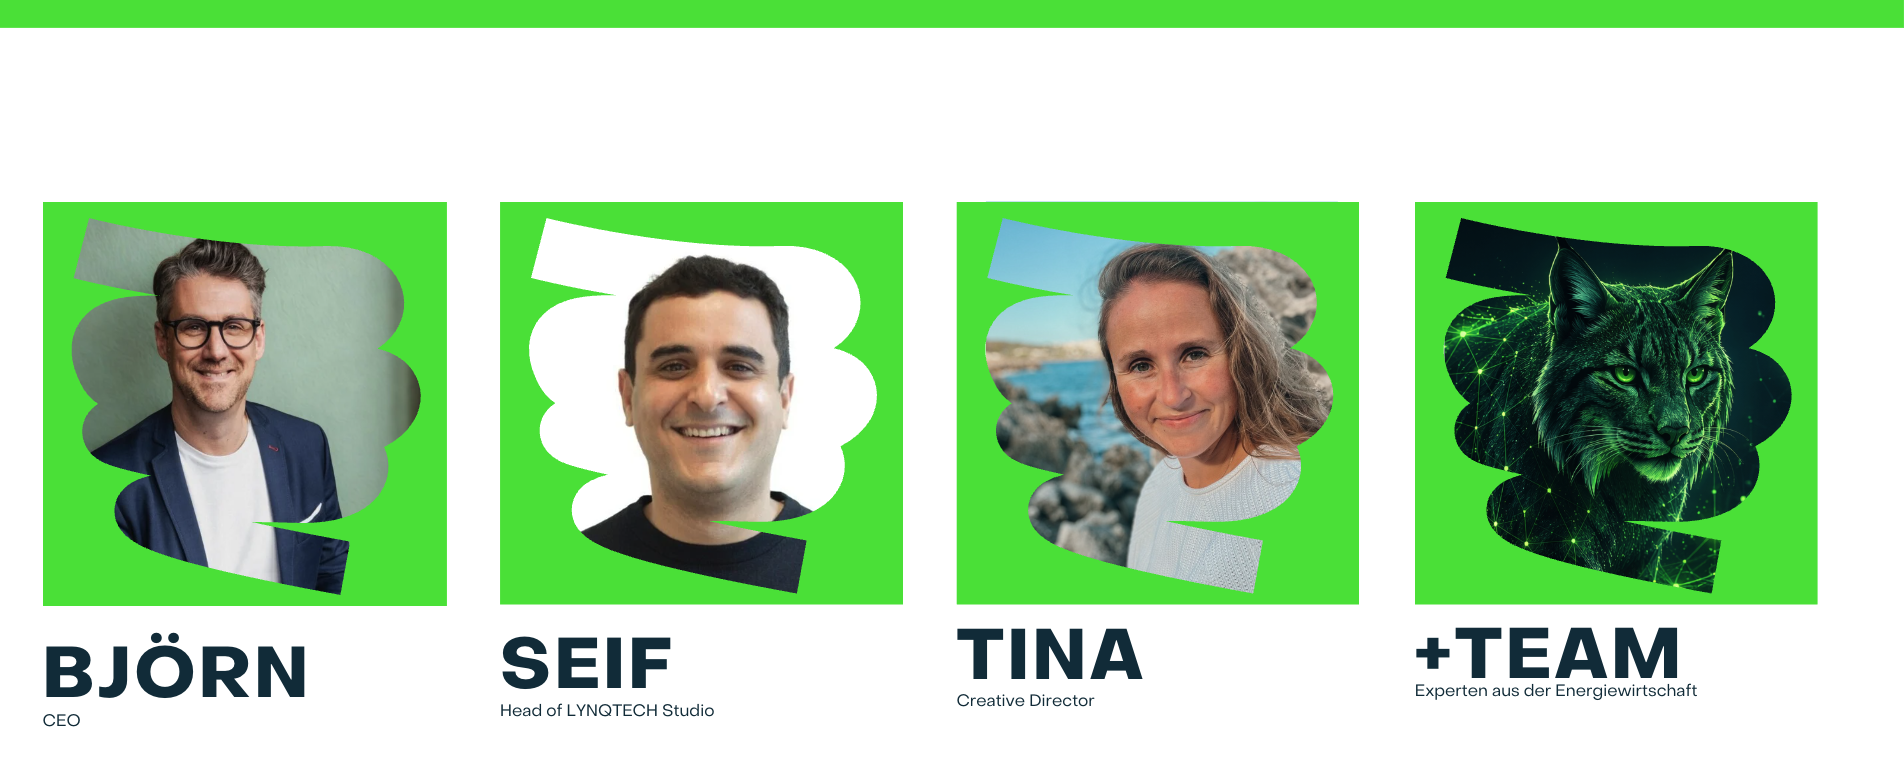
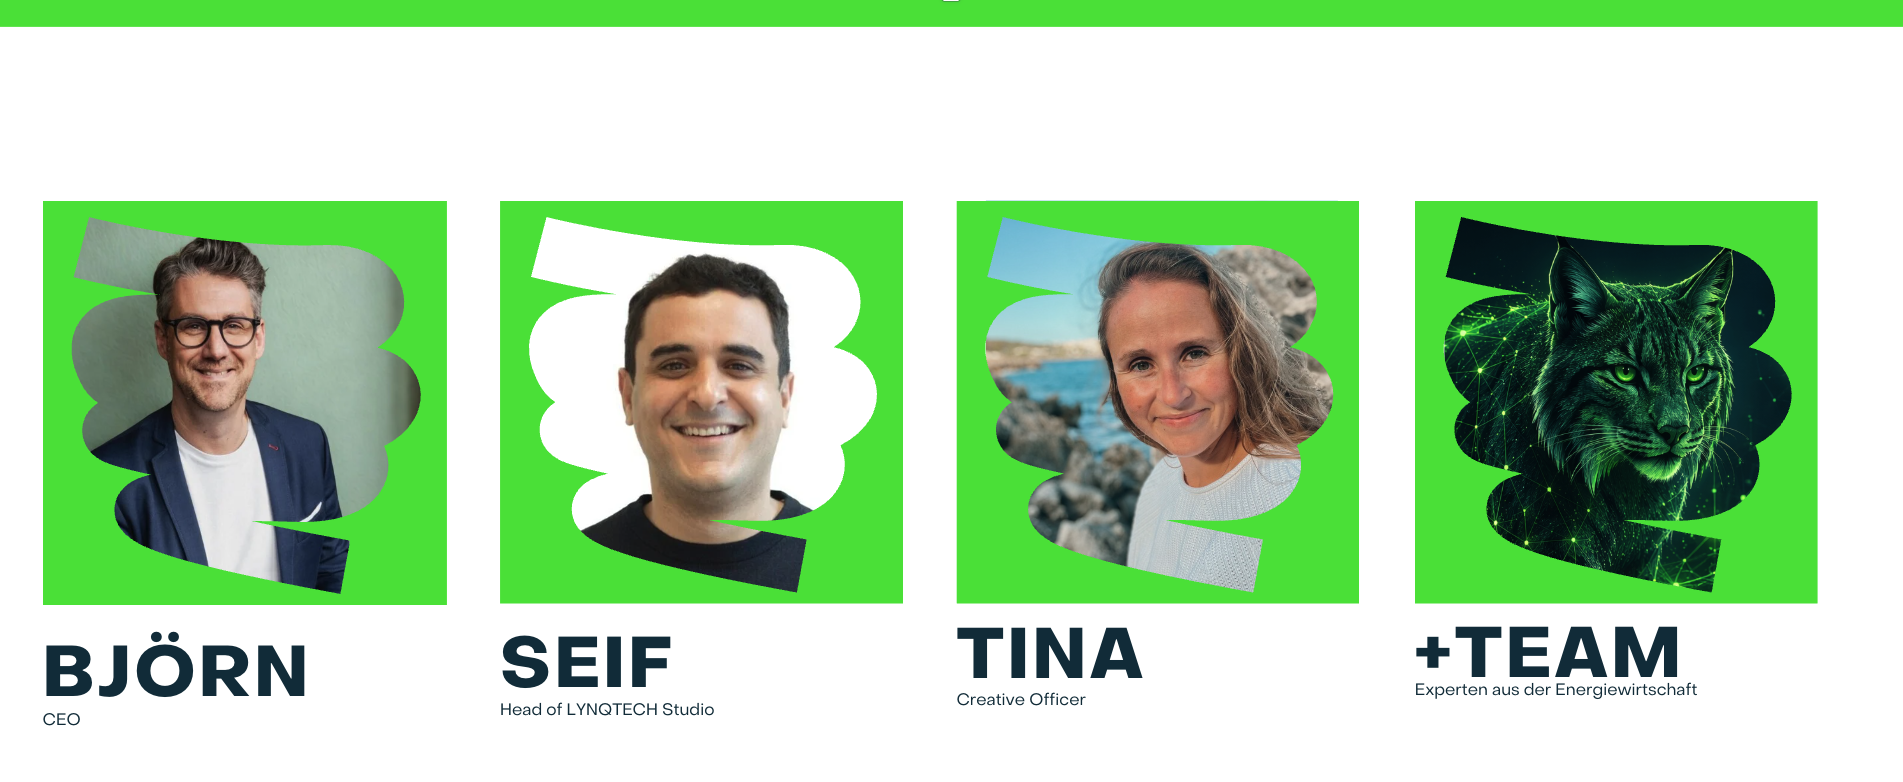
update

diff --git a/index.html b/index.html
@@ -1736,6 +1736,7 @@
   }
 
   /* ============= COOKIE BANNER ============= */
+  /* ---- Cookie bottom bar ---- */
   .cookie-overlay {
     position: fixed;
     bottom: 0;
@@ -1749,40 +1750,39 @@
     transform: translateY(110%);
     pointer-events: none;
   }
-  .cookie-overlay.hidden {
-    display: none;
-  }
+  .cookie-overlay.hidden { display: none; }
+
   .cookie-modal {
     background: #fff;
     border-radius: 16px 16px 0 0;
     width: 100%;
-    max-width: 100%;
-    max-height: 72vh;
-    overflow-y: auto;
     box-shadow: 0 -6px 40px rgba(0,0,0,.18);
     display: flex;
     flex-direction: column;
+    max-height: 80vh;
   }
+
+  /* Header */
   .cookie-modal-header {
     display: flex;
     align-items: center;
     justify-content: space-between;
-    padding: 24px 28px 20px;
+    padding: 20px 28px 16px;
     gap: 16px;
     flex-shrink: 0;
   }
   .cookie-modal-logo {
     display: flex;
     align-items: center;
-    gap: 16px;
+    gap: 14px;
   }
   .cookie-modal-logo img {
-    height: 56px;
+    height: 44px;
     width: auto;
-    border-radius: 8px;
+    border-radius: 6px;
   }
   .cookie-modal-logo h2 {
-    font-size: 1.35rem;
+    font-size: 1.2rem;
     font-weight: 700;
     color: var(--lynq-blue);
     margin: 0;
@@ -1791,7 +1791,7 @@
   .cookie-close {
     background: none;
     border: none;
-    font-size: 1.25rem;
+    font-size: 1.1rem;
     color: var(--lynq-green);
     cursor: pointer;
     padding: 4px 8px;
@@ -1801,34 +1801,54 @@
     transition: background .15s;
   }
   .cookie-close:hover { background: rgba(71,229,48,.12); }
+
+  /* Full-width top divider */
   .cookie-divider {
     border: none;
     border-top: 2px solid var(--lynq-green);
     margin: 0 28px;
     flex-shrink: 0;
   }
-  .cookie-modal-body {
-    padding: 20px 28px 4px;
-    font-size: .875rem;
-    line-height: 1.6;
-    color: #333;
+
+  /* Two-column content area */
+  .cookie-content-wrap {
+    display: flex;
+    flex-direction: row;
+    align-items: stretch;
     overflow-y: auto;
+    flex: 1;
+    min-height: 0;
   }
-  .cookie-modal-body p { margin: 0 0 16px; }
+
+  /* Left: text + checkboxes + footer links */
+  .cookie-modal-body {
+    flex: 1 1 0;
+    padding: 20px 28px 20px;
+    font-size: .82rem;
+    line-height: 1.55;
+    color: #444;
+    overflow-y: auto;
+    border-right: 1px solid #eee;
+  }
+  .cookie-modal-body p { margin: 0 0 12px; }
   .cookie-modal-body a { color: var(--lynq-green); text-decoration: underline; }
-  .cookie-modal-body .cookie-divider { margin: 16px 0; }
+  .cookie-divider-inline {
+    border: none;
+    border-top: 1px solid #e0e0e0;
+    margin: 12px 0;
+  }
   .cookie-checkboxes {
     display: flex;
     flex-direction: row;
     flex-wrap: wrap;
-    gap: 16px 32px;
-    margin: 4px 0 20px;
+    gap: 10px 28px;
+    margin: 4px 0 16px;
   }
   .cookie-check-item {
     display: flex;
     align-items: center;
-    gap: 16px;
-    font-size: .95rem;
+    gap: 10px;
+    font-size: .875rem;
     font-weight: 500;
     color: var(--lynq-blue);
     cursor: pointer;
@@ -1836,8 +1856,8 @@
   .cookie-check-item input[type="checkbox"] {
     appearance: none;
     -webkit-appearance: none;
-    width: 22px;
-    height: 22px;
+    width: 20px;
+    height: 20px;
     border: 2px solid #ccc;
     border-radius: 4px;
     flex-shrink: 0;
@@ -1855,29 +1875,45 @@
     position: absolute;
     top: 50%; left: 50%;
     transform: translate(-50%,-50%);
-    font-size: .75rem;
+    font-size: .7rem;
     color: #555;
     font-weight: 700;
   }
-  .cookie-check-item input[type="checkbox"]:disabled {
-    cursor: default;
-    opacity: .85;
+  .cookie-check-item input[type="checkbox"]:disabled { cursor: default; opacity: .85; }
+
+  /* Footer links — inside left column */
+  .cookie-modal-footer {
+    display: flex;
+    gap: 20px;
+    flex-wrap: wrap;
+    margin-top: 4px;
   }
+  .cookie-modal-footer a {
+    font-size: .75rem;
+    color: #999;
+    text-decoration: none;
+    border-bottom: 1px solid #ddd;
+    transition: color .15s;
+  }
+  .cookie-modal-footer a:hover { color: var(--lynq-blue); }
+
+  /* Right: buttons column */
   .cookie-modal-actions {
-    padding: 4px 28px 16px;
-    display: grid;
-    grid-template-columns: 1fr 1fr;
+    flex: 0 0 260px;
+    display: flex;
+    flex-direction: column;
     gap: 10px;
-    flex-shrink: 0;
+    padding: 20px 24px 20px;
+    justify-content: center;
   }
   .cookie-btn {
     width: 100%;
-    padding: 13px 16px;
+    padding: 13px 14px;
     border: none;
     border-radius: 8px;
     background: var(--lynq-green);
     color: var(--lynq-blue);
-    font-size: .9rem;
+    font-size: .875rem;
     font-weight: 700;
     cursor: pointer;
     transition: filter .15s, transform .1s;
@@ -1888,32 +1924,17 @@
     filter: brightness(1.08);
     transform: translateY(-1px);
   }
-  .cookie-modal-footer {
-    padding: 10px 28px 20px;
-    display: flex;
-    gap: 24px;
-    justify-content: center;
-    flex-wrap: wrap;
-    flex-shrink: 0;
-  }
-  .cookie-modal-footer a {
-    font-size: .8rem;
-    color: #777;
-    text-decoration: none;
-    border-bottom: 1px solid #ddd;
-    transition: color .15s;
-  }
-  .cookie-modal-footer a:hover { color: var(--lynq-blue); }
-  @media (max-width: 480px) {
-    .cookie-modal { border-radius: 12px 12px 0 0; max-height: 95vh; }
-    .cookie-modal-actions { grid-template-columns: 1fr; }
-    .cookie-modal-header { padding: 18px 18px 14px; }
-    .cookie-modal-logo img { height: 44px; }
-    .cookie-modal-logo h2 { font-size: 1.1rem; }
-    .cookie-modal-body { padding: 16px 18px 4px; }
+
+  /* Mobile: stack vertically */
+  @media (max-width: 640px) {
+    .cookie-modal { border-radius: 14px 14px 0 0; max-height: 90vh; }
+    .cookie-modal-header { padding: 16px 18px 14px; }
+    .cookie-modal-logo img { height: 36px; }
+    .cookie-modal-logo h2 { font-size: 1rem; }
     .cookie-divider { margin: 0 18px; }
-    .cookie-modal-actions { padding: 4px 18px 12px; }
-    .cookie-modal-footer { padding: 10px 18px 18px; gap: 16px; }
+    .cookie-content-wrap { flex-direction: column; }
+    .cookie-modal-body { border-right: none; border-bottom: 1px solid #eee; padding: 16px 18px 16px; }
+    .cookie-modal-actions { flex: none; padding: 14px 18px 18px; }
   }
 </style>
 </head>
@@ -2500,38 +2521,40 @@ Genau deshalb bauen wir keine Konzepte für die Schublade. Wir bauen Lösungen, 
       <button class="cookie-close" id="cookieClose" aria-label="Schließen">✕</button>
     </div>
     <hr class="cookie-divider">
-    <div class="cookie-modal-body">
-      <p>Wir nutzen Cookies auf unserer Website. Einige von ihnen sind essenziell, während andere uns helfen, diese Website und Ihre Erfahrung zu verbessern.</p>
-      <p>Wenn Sie unter 16 Jahre alt sind und Ihre Zustimmung zu freiwilligen Diensten geben möchten, müssen Sie Ihre Erziehungsberechtigten um Erlaubnis bitten.</p>
-      <p>Wir verwenden Cookies und andere Technologien auf unserer Website. Einige von ihnen sind essenziell, während andere uns helfen, diese Website und Ihre Erfahrung zu verbessern. Personenbezogene Daten können verarbeitet werden (z.&nbsp;B. IP-Adressen), z.&nbsp;B. für personalisierte Anzeigen und Inhalte oder Anzeigen- und Inhaltsmessung. Weitere Informationen über die Verwendung Ihrer Daten finden Sie in unserer <a href="https://www.lynq.tech/datenschutzerklaerung/" target="_blank" rel="noopener">Datenschutzerklärung</a>. Sie können Ihre Auswahl jederzeit unter <a href="#" id="cookieReopenLink">Einstellungen</a> widerrufen oder anpassen.</p>
-      <hr class="cookie-divider">
-      <p>Einige Services verarbeiten personenbezogene Daten in den USA. Mit Ihrer Einwilligung zur Nutzung dieser Services stimmen Sie auch der Verarbeitung Ihrer Daten in den USA gemäß Art.&nbsp;49 (1) lit.&nbsp;a DSGVO zu. Der EuGH stuft die USA als Land mit unzureichendem Datenschutz nach EU-Standards ein. So besteht etwa das Risiko, dass US-Behörden personenbezogene Daten in Überwachungsprogrammen verarbeiten, ohne bestehende Klagemöglichkeit für Europäer.</p>
-      <hr class="cookie-divider">
-      <div class="cookie-checkboxes">
-        <label class="cookie-check-item">
-          <input type="checkbox" checked disabled> Essenziell
-        </label>
-        <label class="cookie-check-item">
-          <input type="checkbox" id="ckStatistiken"> Statistiken
-        </label>
-        <label class="cookie-check-item">
-          <input type="checkbox" id="ckMarketing"> Marketing
-        </label>
-        <label class="cookie-check-item">
-          <input type="checkbox" id="ckExterne"> Externe Medien
-        </label>
+    <div class="cookie-content-wrap">
+      <div class="cookie-modal-body">
+        <p>Wir nutzen Cookies auf unserer Website. Einige von ihnen sind essenziell, während andere uns helfen, diese Website und Ihre Erfahrung zu verbessern.</p>
+        <p>Wenn Sie unter 16 Jahre alt sind und Ihre Zustimmung zu freiwilligen Diensten geben möchten, müssen Sie Ihre Erziehungsberechtigten um Erlaubnis bitten.</p>
+        <p>Wir verwenden Cookies und andere Technologien auf unserer Website. Einige von ihnen sind essenziell, während andere uns helfen, diese Website und Ihre Erfahrung zu verbessern. Personenbezogene Daten können verarbeitet werden (z.&nbsp;B. IP-Adressen), z.&nbsp;B. für personalisierte Anzeigen und Inhalte oder Anzeigen- und Inhaltsmessung. Weitere Informationen über die Verwendung Ihrer Daten finden Sie in unserer <a href="https://www.lynq.tech/datenschutzerklaerung/" target="_blank" rel="noopener">Datenschutzerklärung</a>. Sie können Ihre Auswahl jederzeit unter <a href="#" id="cookieReopenLink">Einstellungen</a> widerrufen oder anpassen.</p>
+        <hr class="cookie-divider cookie-divider-inline">
+        <p>Einige Services verarbeiten personenbezogene Daten in den USA. Mit Ihrer Einwilligung zur Nutzung dieser Services stimmen Sie auch der Verarbeitung Ihrer Daten in den USA gemäß Art.&nbsp;49 (1) lit.&nbsp;a DSGVO zu. Der EuGH stuft die USA als Land mit unzureichendem Datenschutz nach EU-Standards ein. So besteht etwa das Risiko, dass US-Behörden personenbezogene Daten in Überwachungsprogrammen verarbeiten, ohne bestehende Klagemöglichkeit für Europäer.</p>
+        <hr class="cookie-divider cookie-divider-inline">
+        <div class="cookie-checkboxes">
+          <label class="cookie-check-item">
+            <input type="checkbox" checked disabled> Essenziell
+          </label>
+          <label class="cookie-check-item">
+            <input type="checkbox" id="ckStatistiken"> Statistiken
+          </label>
+          <label class="cookie-check-item">
+            <input type="checkbox" id="ckMarketing"> Marketing
+          </label>
+          <label class="cookie-check-item">
+            <input type="checkbox" id="ckExterne"> Externe Medien
+          </label>
+        </div>
+        <div class="cookie-modal-footer">
+          <a href="#" id="cookieDetailsLink">Cookie-Details</a>
+          <a href="https://www.lynq.tech/datenschutzerklaerung/" target="_blank" rel="noopener">Datenschutzerklärung</a>
+          <a href="https://www.lynq.tech/impressum/" target="_blank" rel="noopener">Impressum</a>
+        </div>
       </div>
-    </div>
-    <div class="cookie-modal-actions">
-      <button class="cookie-btn" id="cookieSave">Speichern</button>
-      <button class="cookie-btn" id="cookieAcceptAll">Alle akzeptieren</button>
-      <button class="cookie-btn" id="cookieEssential">Nur essenzielle Cookies akzeptieren</button>
-      <button class="cookie-btn" id="cookieIndividual">Individuelle Datenschutzeinstellungen</button>
-    </div>
-    <div class="cookie-modal-footer">
-      <a href="#" id="cookieDetailsLink">Cookie-Details</a>
-      <a href="https://www.lynq.tech/datenschutzerklaerung/" target="_blank" rel="noopener">Datenschutzerklärung</a>
-      <a href="https://www.lynq.tech/impressum/" target="_blank" rel="noopener">Impressum</a>
+      <div class="cookie-modal-actions">
+        <button class="cookie-btn" id="cookieSave">Speichern</button>
+        <button class="cookie-btn" id="cookieAcceptAll">Alle akzeptieren</button>
+        <button class="cookie-btn" id="cookieEssential">Nur essenzielle Cookies akzeptieren</button>
+        <button class="cookie-btn" id="cookieIndividual">Individuelle Datenschutz&shy;einstellungen</button>
+      </div>
     </div>
   </div>
 </div>